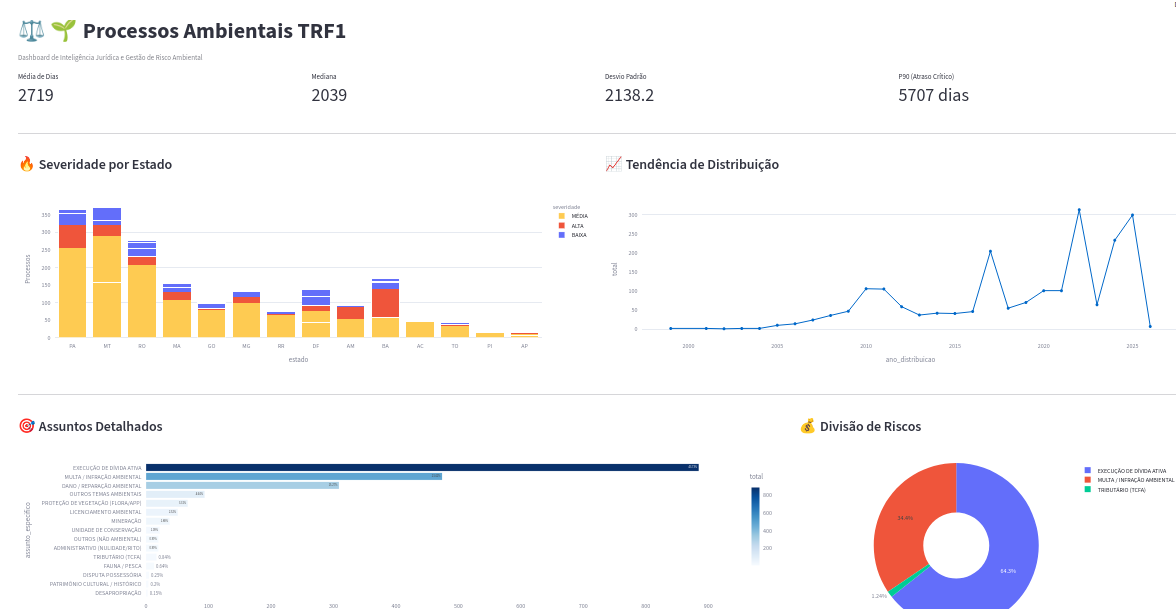
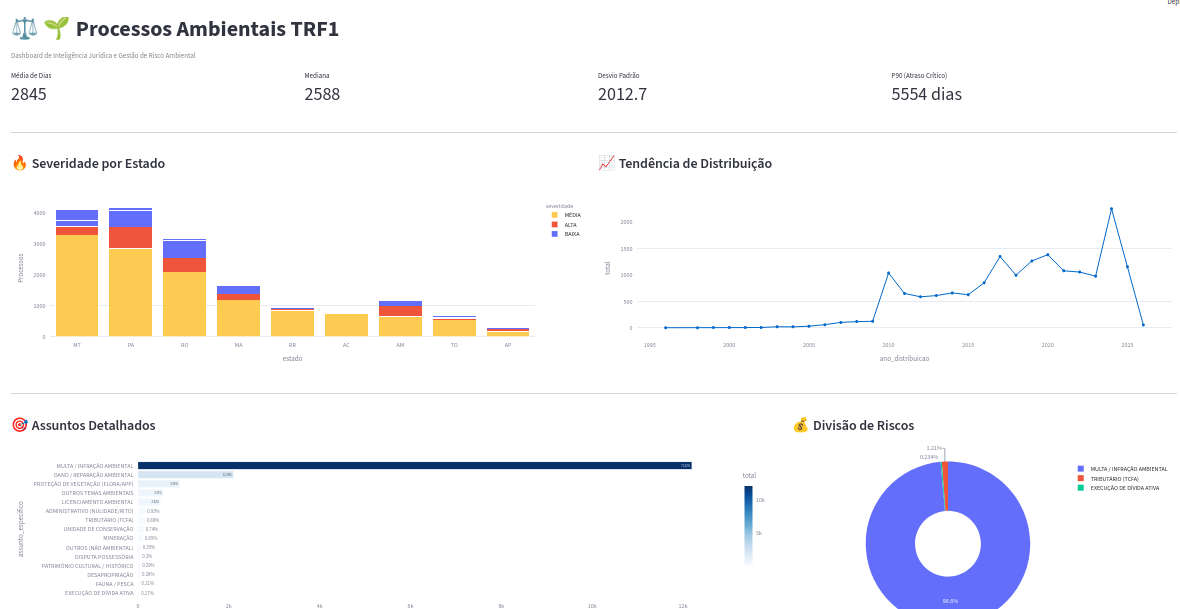
inclusao filtro 9 estados da Amazonia Legal na camada bronze

diff --git a/src/pipeline/silver/processos.py b/src/pipeline/silver/processos.py
@@ -20,6 +20,20 @@ MAPA_EMPRESAS = {
     'MPF': 'MPF',
 }
 
+# Termos de ruído compilados globalmente para ganho de performance
+TERMOS_RUIDO = [
+    re.compile(r'\(IMPETRADO\)', re.IGNORECASE),
+    re.compile(r'\[ATIVO\]', re.IGNORECASE),
+    re.compile(r'\[PASSIVO\]', re.IGNORECASE),
+    re.compile(r'\(REU\)', re.IGNORECASE),
+    re.compile(r'CHEFE\s*-\s*', re.IGNORECASE),
+    re.compile(r'SUPERINTENDENTE\s*.*?\s*-\s*', re.IGNORECASE),
+    re.compile(r'DIRETOR\s*.*?\s*-\s*', re.IGNORECASE),
+    re.compile(r'COORDENADOR\s*.*?\s*-\s*', re.IGNORECASE)
+]
+
+REGEX_CNPJ = re.compile(r'(.*?)\s*-\s*CNPJ:\s*([\d./-]+)')
+
 def _load_data(path: str) -> pd.DataFrame:
     df = pd.read_excel(path, dtype={'Número do Processo': str})
     df = df[df['Data de Distribuição'].notna()]
@@ -28,72 +42,44 @@ def _load_data(path: str) -> pd.DataFrame:
 def _tipo_parte(texto):  
     if pd.isna(texto):
         return None
-    texto = texto.upper()
+    texto = str(texto).upper()
     if 'CNPJ' in texto:
         return 'empresa'
     if 'CPF' in texto:
         return 'pessoa_fisica'
     return 'outro'
 
-def _extrair_estado(jurisdicao):
-    if pd.isna(jurisdicao):
-        return None
-    match = re.search(r'-([A-Z]{2})', jurisdicao)
-    if match:
-        return match.group(1)
-    mapeamento = {
-        'Acre': 'AC', 'Alagoas': 'AL', 'Amapá': 'AP', 'Amapa': 'AP',
-        'Amazonas': 'AM', 'Bahia': 'BA', 'Ceará': 'CE', 'Ceara': 'CE',
-        'Distrito Federal': 'DF', 'Espírito Santo': 'ES', 'Espirito Santo': 'ES',
-        'Goiás': 'GO', 'Goias': 'GO', 'Maranhão': 'MA', 'Maranhao': 'MA',
-        'Mato Grosso': 'MT', 'Mato Grosso do Sul': 'MS', 'Minas Gerais': 'MG',
-        'Pará': 'PA', 'Para': 'PA', 'Paraíba': 'PB', 'Paraiba': 'PB',
-        'Paraná': 'PR', 'Parana': 'PR', 'Pernambuco': 'PE', 'Piauí': 'PI',
-        'Piaui': 'PI', 'Rio de Janeiro': 'RJ', 'Rio Grande do Norte': 'RN',
-        'Rio Grande do Sul': 'RS', 'Rondônia': 'RO', 'Rondonia': 'RO',
-        'Roraima': 'RR', 'Santa Catarina': 'SC', 'São Paulo': 'SP',
-        'Sao Paulo': 'SP', 'Sergipe': 'SE', 'Tocantins': 'TO'
-    }
-    for nome, uf in mapeamento.items():
-        if nome in jurisdicao:
-            return uf
-    return None
-
 def _normalizar_empresa(nome):
     if pd.isna(nome):
         return None
-    nome = nome.upper().strip()
+    nome_clean = str(nome).upper().strip()
     for k, v in MAPA_EMPRESAS.items():
-        if k in nome:
+        if k in nome_clean:
             return v
-    return nome
+    return nome_clean
 
 def _extrair_empresa(texto):
     if pd.isna(texto):
-        return pd.Series([None, None])
-    texto = texto.replace('\n', ' ')
+        return pd.Series([None, None], index=['empresa_nome', 'empresa_cnpj'])
+    
+    texto = str(texto).replace('\n', ' ')
     partes = [p.strip() for p in texto.split(',')]
+    
     for parte in partes:
         if 'CNPJ' in parte:
-            match = re.search(r'(.*?)\s*-\s*CNPJ:\s*([\d./-]+)', parte)
+            match = REGEX_CNPJ.search(parte)
             if match:
                 nome = match.group(1).strip()
                 cnpj = match.group(2).strip()
-                termos_ruido = [
-                    r'\(IMPETRADO\)', r'\[ATIVO\]', r'\[PASSIVO\]', r'\(REU\)',
-                    r'CHEFE\s*-\s*', r'SUPERINTENDENTE\s*.*?\s*-\s*',
-                    r'DIRETOR\s*.*?\s*-\s*', r'COORDENADOR\s*.*?\s*-\s*'
-                ]
-                for ruido in termos_ruido:
-                    nome = re.sub(ruido, '', nome, flags=re.IGNORECASE).strip()
+                
+                for ruido in TERMOS_RUIDO:
+                    nome = ruido.sub('', nome).strip()
+                    
                 nome = re.sub(r'^[,\-\s]+', '', nome).upper()
-                return pd.Series([nome, cnpj])
-    return pd.Series([None, None])
-
-def _anonimizar_status(status):
-    if pd.isna(status):
-        return status
-    return re.sub(r'(?<=prazo de\s)[A-ZÀ-Úa-zà-ÿ\s]+(?=\sem)', ' PESSOA ', status, flags=re.IGNORECASE)
+                return pd.Series([nome, cnpj], index=['empresa_nome', 'empresa_cnpj'])
+                
+    primeiro_nome = partes[0].split('-')[0].strip().upper() if partes else None
+    return pd.Series([primeiro_nome, None], index=['empresa_nome', 'empresa_cnpj'])
 
 def _categorizar_juridico(texto):
     if pd.isna(texto):
@@ -101,29 +87,22 @@ def _categorizar_juridico(texto):
     
     t = str(texto).upper()
     
-    # 1. Filtro de Ruído Social/Previdenciário/Trabalhista
+    # 1. Filtro de Ruído Primário
     if any(kw in t for kw in ['AUXÍLIO EMERGENCIAL', 'ASSISTENCIAL', 'SEGURO-DEFESO', 'PREVIDENCIÁRIO', 'SINDICAL']):
         return "OUTROS (NÃO AMBIENTAL)"
 
-    # 2. Tributário Ambiental (Taxas de fiscalização - TCFA)
-    # Importante: TCFA não é multa, é taxa. O tratamento jurídico é outro.
+    # 2. Especificidades Temáticas (Subiram de prioridade para não caírem em "Dívida Ativa" puramente)
+    if any(kw in t for kw in ['RESERVA LEGAL', 'ÁREA DE PRESERVAÇÃO PERMANENTE', 'APP', 'FLORA', 'FLORESTAS', 'MATA ATLÂNTICA']):
+        return "PROTEÇÃO DE VEGETAÇÃO (FLORA/APP)"
+        
+    if 'MINERAÇÃO' in t or 'RECURSOS MINERAIS' in t or 'MINERACAO' in t:
+        return "MINERAÇÃO"
+
     if 'TAXA DE FISCALIZAÇÃO AMBIENTAL' in t or 'TCFA' in t:
         return "TRIBUTÁRIO (TCFA)"
 
-    # 3. Execução de Dívida (Risco Alto/Patrimonial)
-    if 'DÍVIDA ATIVA' in t:
-        return "EXECUÇÃO DE DÍVIDA ATIVA"
-
-    # 4. Multas e Sanções Administrativas
     if any(kw in t for kw in ['MULTA', 'SANÇÃO', 'SANCOES', 'INFRAÇÃO', 'APREENSÃO', 'INTERDIÇÃO', 'EMBARGO']):
         return "MULTA / INFRAÇÃO AMBIENTAL"
-    
-    # 5. Temas Específicos de Proteção
-    if 'MINERAÇÃO' in t or 'RECURSOS MINERAIS' in t or 'MINERACAO' in t:
-        return "MINERAÇÃO"
-    
-    if any(kw in t for kw in ['RESERVA LEGAL', 'ÁREA DE PRESERVAÇÃO PERMANENTE', 'APP', 'FLORA', 'FLORESTAS', 'MATA ATLÂNTICA']):
-        return "PROTEÇÃO DE VEGETAÇÃO (FLORA/APP)"
     
     if 'UNIDADE DE CONSERVAÇÃO' in t:
         return "UNIDADE DE CONSERVAÇÃO"
@@ -134,7 +113,6 @@ def _categorizar_juridico(texto):
     if 'PATRIMÔNIO CULTURAL' in t or 'HISTÓRICO' in t:
         return "PATRIMÔNIO CULTURAL / HISTÓRICO"
 
-    # 6. Disputas de Terra e Licenciamento
     if 'DESAPROPRIAÇÃO' in t or 'DESAPROPRIACAO' in t:
         return "DESAPROPRIAÇÃO"
     
@@ -144,11 +122,13 @@ def _categorizar_juridico(texto):
     if 'LICENÇA' in t or 'LICENCIMENTO' in t:
         return "LICENCIAMENTO AMBIENTAL"
 
-    # 7. Danos e Indenizações (Responsabilidade Civil)
     if any(kw in t for kw in ['DANO AMBIENTAL', 'POLUIÇÃO', 'DEGRADAÇÃO', 'HÍDRICOS', 'AGROTÓXICOS']):
         return "DANO / REPARAÇÃO AMBIENTAL"
 
-    # 8. Atos Administrativos Puros
+    # 3. Execução genérica (Se não entrou em nenhuma ambiental anterior)
+    if 'DÍVIDA ATIVA' in t:
+        return "EXECUÇÃO DE DÍVIDA ATIVA"
+
     if 'NULIDADE DE ATO' in t or 'PROCESSO ADMINISTRATIVO' in t:
         return "ADMINISTRATIVO (NULIDADE/RITO)"
 
@@ -171,7 +151,7 @@ def _transform_data(df: pd.DataFrame) -> pd.DataFrame:
     df['data_distribuicao'] = pd.to_datetime(df['Data de Distribuição'], format='%d/%m/%Y', errors='coerce')
     df['ano_distribuicao'] = df['data_distribuicao'].dt.year.astype('Int64')
     df['classe_judicial'] = df['Classe Judicial'].str.split('(').str[0].str.strip()
-    df['estado'] = df['Jurisdição'].apply(_extrair_estado)
+    df['estado'] = df['estado'].str.upper()
     df['ultima_movimentacao'] = pd.to_datetime(df['Status'].str.extract(r'(\d{2}/\d{2}/\d{4})')[0], format='%d/%m/%Y', errors='coerce')
     df['ano_ultima_movimentacao'] = df['ultima_movimentacao'].dt.year.astype('Int64')
     df['tem_movimentacao'] = df['ultima_movimentacao'].notna()
@@ -179,38 +159,22 @@ def _transform_data(df: pd.DataFrame) -> pd.DataFrame:
     df['tipo_parte_passiva'] = df['Polo Passivo'].apply(_tipo_parte)
     df[['empresa_nome', 'empresa_cnpj']] = df['Polo Passivo'].apply(_extrair_empresa)
     df['empresa_nome'] = df['empresa_nome'].apply(_normalizar_empresa)    
+    
     df['tem_advogado'] = df['Polo Ativo'].str.contains('ADVOGADO', na=False)
     df['tempo_processo_dias'] = (df['ultima_movimentacao'] - df['data_distribuicao']).dt.days
 
-    df = df[df['empresa_cnpj'].notna()]
-
-    mask = df['tipo_parte_passiva'] == 'empresa'
-    df.loc[mask, 'Status'] = df.loc[mask, 'Status'].apply(_anonimizar_status)
-    
-    df['status_clean'] = df['Status'].str.upper()
-    df['finalizado'] = df['status_clean'].str.contains('BAIXADO|ARQUIVADO', na=False)
+    df = df[df['empresa_cnpj'].notna()]     
+    df['status'] = df['Status'].str.upper()
+    df['finalizado'] = df['status'].str.contains('BAIXADO|ARQUIVADO', na=False)
 
     return df
 
 def _build_analytical_dataset(df: pd.DataFrame) -> pd.DataFrame:
     colunas = [
-        'Número do Processo',
-        'assunto_codigo',
-        'assunto_raiz',
-        'assunto_especifico',
-        'Jurisdição',
-        'orgao_nome',
-        'classe_judicial',
-        'estado',
-        'status_clean',
-        'qtd_partes_ativas',
-        'tipo_parte_passiva',
-        'empresa_nome',
-        'empresa_cnpj',
-        'tem_advogado',
-        'ano_distribuicao',
-        'ano_ultima_movimentacao',
-        'tempo_processo_dias',
+        'Número do Processo', 'assunto_codigo', 'assunto_raiz', 'assunto_especifico',
+        'Jurisdição', 'orgao_nome', 'classe_judicial', 'estado', 'status',
+        'qtd_partes_ativas', 'tipo_parte_passiva', 'empresa_nome', 'empresa_cnpj',
+        'tem_advogado', 'ano_distribuicao', 'ano_ultima_movimentacao', 'tempo_processo_dias',
         'finalizado'
     ]
 
@@ -218,15 +182,14 @@ def _build_analytical_dataset(df: pd.DataFrame) -> pd.DataFrame:
     df_final = df_final.rename(columns={
         'Número do Processo': 'numero_processo',
         'Jurisdição': 'jurisdicao',
-        'status_clean': 'status',
-        'assunto_raiz': 'assunto' # Mantendo o nome 'assunto' para a raiz para não quebrar o que já existia
+        'assunto_raiz': 'assunto'
     })
 
     return df_final
 
 def run_pipeline():
     BASE_DIR = Path(__file__).resolve().parent.parent.parent.parent
-    raw_path = BASE_DIR / "data" / "bronze" / "processos_teste.xlsx"
+    raw_path = BASE_DIR / "data" / "bronze" / "trf1_filtrados.xlsx"
     processed_path = BASE_DIR / "data" / "silver" / "processos.parquet"
     
     df = _load_data(str(raw_path))

diff --git a/src/pipeline/bronze/filtragem_estados.py b/src/pipeline/bronze/filtragem_estados.py
@@ -1,0 +1,89 @@
+import re
+import pandas as pd
+from pathlib import Path
+
+REGEX_UF = re.compile(r'-([A-Z]{2})\b')
+
+MAPEAMENTO_ESTADOS = {
+    'acre': 'AC',
+    'alagoas': 'AL',
+    'amapá': 'AP',
+    'amapa': 'AP',
+    'amazonas': 'AM',
+    'bahia': 'BA',
+    'ceará': 'CE',
+    'ceara': 'CE',
+    'distrito federal': 'DF',
+    'espírito santo': 'ES',
+    'espirito santo': 'ES',
+    'goiás': 'GO',
+    'goias': 'GO',
+    'maranhão': 'MA',
+    'maranhao': 'MA',
+    'mato grosso': 'MT',
+    'mato grosso do sul': 'MS',
+    'minas gerais': 'MG',
+    'pará': 'PA',
+    'para': 'PA',
+    'paraíba': 'PB',
+    'paraiba': 'PB',
+    'paraná': 'PR',
+    'parana': 'PR',
+    'pernambuco': 'PE',
+    'piauí': 'PI',
+    'piaui': 'PI',
+    'rio de janeiro': 'RJ',
+    'rio grande do norte': 'RN',
+    'rio grande do sul': 'RS',
+    'rondônia': 'RO',
+    'rondonia': 'RO',
+    'roraima': 'RR',
+    'santa catarina': 'SC',
+    'são paulo': 'SP',
+    'sao paulo': 'SP',
+    'sergipe': 'SE',
+    'tocantins': 'TO',
+}
+
+def _load_data(path: str) -> pd.DataFrame:
+    df = pd.read_excel(path, dtype={'Número do Processo': str})
+    df = df[df['Data de Distribuição'].notna()]
+    return df
+
+def _extrair_estado(jurisdicao):
+    if pd.isna(jurisdicao):
+        return None
+
+    texto = str(jurisdicao).strip()
+
+    match = REGEX_UF.search(texto)
+    if match:
+        return match.group(1)
+
+    texto_lower = texto.lower()
+
+    for estado, uf in MAPEAMENTO_ESTADOS.items():
+        if re.search(rf'\b{re.escape(estado)}\b', texto_lower):
+            return uf
+
+    return None
+
+def _filtrar_estados(df: pd.DataFrame) -> pd.DataFrame:
+    ESTADOS_AMAZONIA_LEGAL = {
+        'AC', 'AM', 'AP', 'MA', 'MT', 'PA', 'RO', 'RR', 'TO'
+    }
+
+    df = df.copy()
+    df['estado'] = df['Jurisdição'].apply(_extrair_estado)
+    return df[df['estado'].isin(ESTADOS_AMAZONIA_LEGAL)]
+    
+
+def run_pipeline():
+    BASE_DIR = Path(__file__).resolve().parent.parent.parent.parent
+    base_path_processos = BASE_DIR / "data" / "bronze" / "trf1_completos.xlsx"
+    processed_path_processos = BASE_DIR / "data" / "bronze" / "trf1_filtrados.xlsx"
+
+    df_processos = _load_data(str(base_path_processos))
+    df_processos = _filtrar_estados(df_processos)
+    df_processos.to_excel(str(processed_path_processos), index=False)
+    return df_processos

diff --git a/src/pipeline/main.py b/src/pipeline/main.py
@@ -8,13 +8,17 @@ sys.path.append(str(parent))
 from pipeline.gold import detalhamento
 import pipeline.silver.processos as processos
 import pipeline.silver.empresas as empresas
+import pipeline.bronze.filtragem_estados as filtragem_estados
 
 
 if __name__ == "__main__":
 
     print("Iniciando pipeline...")
+    df_filtro_estados = filtragem_estados.run_pipeline()
+    print(f"Total de processos após filtragem: {len(df_filtro_estados)}")
+
     df_processos = processos.run_pipeline()
-    print(f"Total de processos: {len(df_processos)}")
+    print(f"Total de processos com empresas processadas: {len(df_processos)}")
     print(f"Período: {df_processos['ano_distribuicao'].min()} - {df_processos['ano_distribuicao'].max()}")
 
     print("Gerando base de empresas...")

diff --git a/src/pipeline/gold/detalhamento.py b/src/pipeline/gold/detalhamento.py
@@ -80,7 +80,7 @@ def run_pipeline():
     BASE_DIR = Path(__file__).resolve().parent.parent.parent.parent
     base_path_empresas = BASE_DIR / "data" / "silver" / "empresas.parquet"
     base_path_processos = BASE_DIR / "data" / "silver" / "processos.parquet"
-    base_path_rf = BASE_DIR / "data" / "bronze" / "receita_federal_sample.parquet"
+    base_path_rf = BASE_DIR / "data" / "bronze" / "base_receita_consolidada.parquet"
     processed_path_empresas = BASE_DIR / "data" / "gold" / "detalhe_empresas.parquet"
     processed_path_processos = BASE_DIR / "data" / "gold" / "detalhe_processos.parquet"
 

diff --git a/README.md b/README.md
@@ -1,6 +1,6 @@
 # 📚 Data Analytics com ETL
 
-Projeto para exemplificar o trabalho de engenharia e análise de dados, utilizando extração de indicadores de processos ambientais em trâmite no TRF-1 (Amazônia Legal). A base de dados foi reduzida da original (que inclui mais de 80 mil processos) para fins didáticos, pois o foco do repositório é demonstrar como trabalhar com os dados extraídos da API DataJud e coletados com mais detalhes pelo número do processo, por meio de webscraping no portal PJe. 
+Projeto para exemplificar o trabalho de engenharia e análise de dados, utilizando extração de indicadores de processos ambientais em trâmite no TRF-1 (Amazônia Legal). Este repositório possui apenas fins didáticos, para demonstrar como trabalhar com os dados extraídos da API DataJud e minerados em mais detalhes pelo número do processo, por meio de webscraping no portal PJe. 
 
 Neste projeto, transforma-se dados brutos em uma camada analítica performática utilizando DuckDB e Parquet. A pipeline simulou uma arquitetura medallion (camada bronze, silver e gold). 
 
@@ -52,7 +52,7 @@ Uma demonstração do dashboard interativo desenvolvido com Streamlit:
 
 ![Dashboard Analytics TRF1](graficos.png)
 
-------------------------------------------
-OBS: Os dados contidos no projeto não são representativos do todo e compreendem menos de 5% dos casos. A amostra foi escolhida aleatoriamente, sem considerar proporcionalidade nos recortes, para fins meramente educacionais.
+Também é possível visualizar em PDF (gerado do deploy do Streamlit)
 
-Informações pessoais foram removidas ou substituídas por identificadores fictícios, em conformidade com a LGPD (Lei nº 13.709/2018). Vale destacar que os dados sobre as partes envolvidas foram obtidos de webscraping no site do PJe do TRF-1.
+------------------------------------------
+OBS: Como a base original possui mais de 80 mil processos, expus apenas uma simulação com uma amostra bem pequena (menos de 1%) e não-representativa do todo, que inseri para testes.